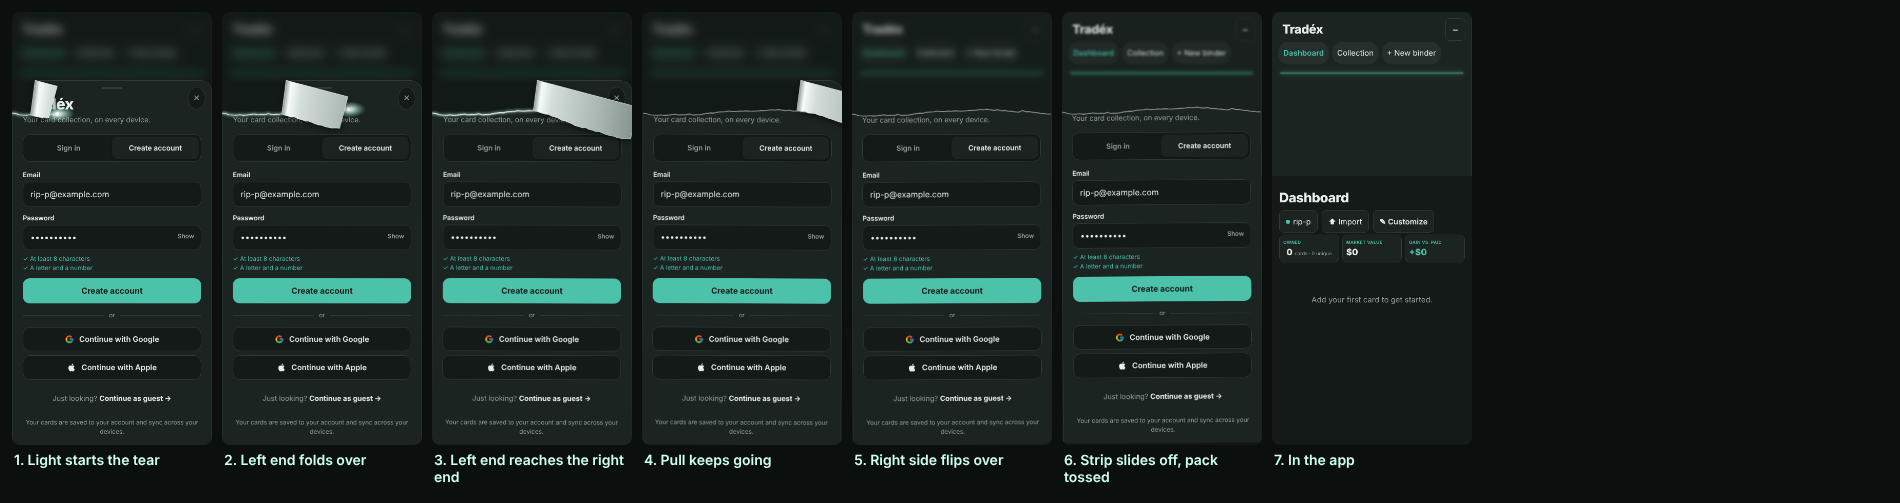
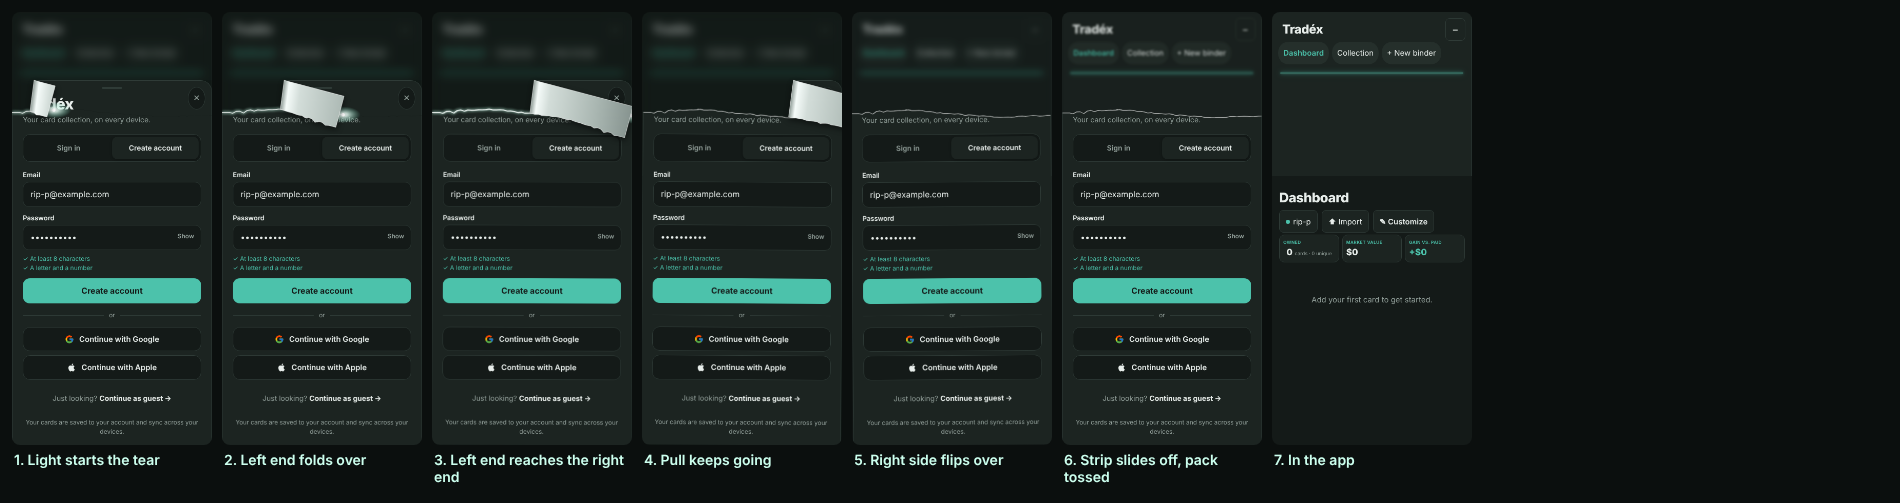
Set the tear to 0.87s
Claude-Session: https://claude.ai/code/session_01K6ofJxh6QarDQ2gKnJ83gJ

diff --git a/js/account.js b/js/account.js
@@ -249,7 +249,7 @@ function lift(rip){const g=$('#txa');if(!g||g.classList.contains('clear'))return
   v.style.cssText=`position:absolute;left:0;top:0;width:100%;height:${cut+12}px;pointer-events:none;overflow:visible`;
   v.innerHTML=`<polyline points="${pts.map(([x,y])=>x+','+y).join(' ')}" fill="none" stroke="rgba(255,255,255,.6)" stroke-width="1.6" vector-effect="non-scaling-stroke" stroke-linejoin="bevel"/>`;return v};
  const at=x=>{for(let i=1;i<pts.length;i++)if(pts[i][0]>=x){const[a,b]=[pts[i-1],pts[i]];return b[0]===a[0]?b[1]:a[1]+(b[1]-a[1])*(x-a[0])/(b[0]-a[0])}return pts[pts.length-1][1]};
- const wrap=document.createElement('div'),SW=850,W=r.width,PX=pts.map(([x,y])=>[x/100*W,y]);wrap.setAttribute('aria-hidden','true');
+ const wrap=document.createElement('div'),SW=870,W=r.width,PX=pts.map(([x,y])=>[x/100*W,y]);wrap.setAttribute('aria-hidden','true');
  Object.assign(wrap.style,{position:'fixed',left:r.left+'px',top:r.top+'px',width:W+'px',height:r.height+'px',pointerEvents:'none',zIndex:1,overflow:'visible',transformOrigin:`100% ${cut}px`});
  // The torn-off title strip stays one piece: the part not yet folded is the card itself, and the part folded over
  // is its mirror image across a slanted crease, drawn as the silver inside of the foil draping down over the right side.
